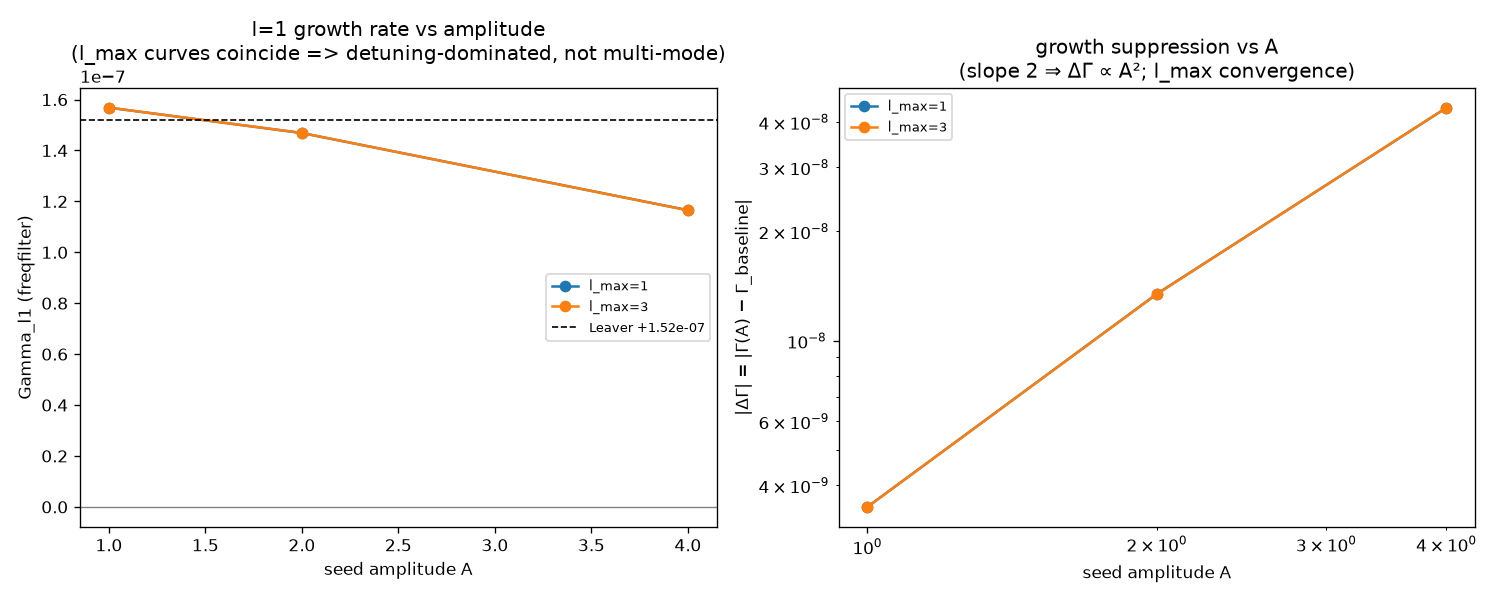
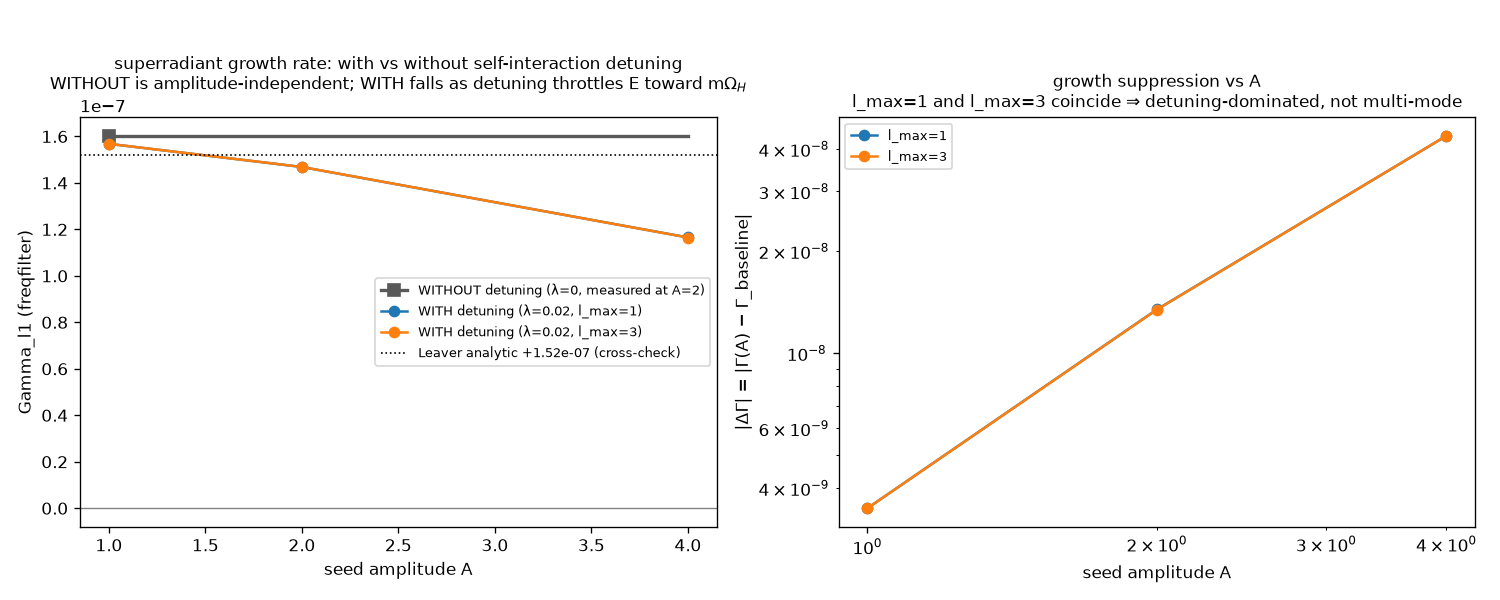
feat(radial1d/nonlinear): plot with/without self-interaction detuning in Gamma sweep
Left panel now shows the lambda=0 amplitude sweep (same freqfilter pipeline)
as the WITHOUT-detuning reference line against the amplitude-dependent WITH
curves; the analytic Leaver value is demoted to a thin independent cross-check.

diff --git a/nonlinear/gamma_sweep/tower_gamma_analyze.py b/nonlinear/gamma_sweep/tower_gamma_analyze.py
@@ -73,24 +73,50 @@ def main():
         nl = sorted({r["l_max"] for r in rows if r["lam"] != 0.0})
         fig, ax = plt.subplots(1, 2, figsize=(12.5, 5))
         CL = {1: "C0", 3: "C1", 5: "C2", 7: "C3"}
+
+        # Left panel is the actual with/without-detuning comparison: the
+        # WITHOUT curve is the same lambda=0 amplitude sweep (self-interaction
+        # off), measured with the identical freqfilter pipeline as the WITH
+        # curve, so both are directly comparable -- not the analytic Leaver
+        # value, which uses a different extraction method entirely and only
+        # serves as an independent cross-check (plotted thin, separately).
+        without_detuning = sorted(
+            [r for r in rows if r["lam"] == 0.0], key=lambda r: r["A"]
+        )
+        if without_detuning:
+            # Without self-interaction, Gamma has no amplitude dependence, so
+            # a single measurement (at whichever A it was run at) fixes the
+            # whole horizontal reference line for comparison against the
+            # amplitude-dependent WITH curves.
+            all_A = [r["A"] for r in rows if r["lam"] != 0.0] or [without_detuning[0]["A"]]
+            A0_span = [min(all_A + [without_detuning[0]["A"]]),
+                      max(all_A + [without_detuning[0]["A"]])]
+            G0 = without_detuning[0]["G1"]
+            ax[0].plot(A0_span, [G0, G0], "s-", color="0.35", lw=2, ms=7,
+                      markevery=[0],
+                      label=f"WITHOUT detuning (λ=0, measured at A={without_detuning[0]['A']:g})")
         for lm in nl:
             pts = sorted([r for r in rows if r["l_max"] == lm and r["lam"] != 0.0],
                          key=lambda r: r["A"])
             if not pts: continue
             A = [r["A"] for r in pts]; G = [r["G1"] for r in pts]
-            ax[0].plot(A, G, "o-", color=CL.get(lm, "k"), label=f"l_max={lm}")
+            ax[0].plot(A, G, "o-", color=CL.get(lm, "k"),
+                      label=f"WITH detuning (λ=0.02, l_max={lm})")
             dG = [abs(r["G1"] - G_base) for r in pts]
             ax[1].plot(A, dG, "o-", color=CL.get(lm, "k"), label=f"l_max={lm}")
-        ax[0].axhline(GL, color="k", ls="--", lw=1, label=f"Leaver +{GL:.2e}")
+        ax[0].axhline(GL, color="k", ls=":", lw=1, label=f"Leaver analytic +{GL:.2e} (cross-check)")
         ax[0].axhline(0, color="0.5", lw=0.8)
         ax[0].set_xlabel("seed amplitude A"); ax[0].set_ylabel("Gamma_l1 (freqfilter)")
-        ax[0].set_title("l=1 growth rate vs amplitude\n(l_max curves coincide => detuning-dominated, not multi-mode)")
+        ax[0].set_title("superradiant growth rate: with vs without self-interaction detuning\n"
+                        "WITHOUT is amplitude-independent; WITH falls as detuning throttles E toward m$\\Omega_H$",
+                        fontsize=10)
         ax[0].legend(fontsize=8)
         ax[1].set_xscale("log"); ax[1].set_yscale("log")
         ax[1].set_xlabel("seed amplitude A"); ax[1].set_ylabel("|ΔΓ| = |Γ(A) − Γ_baseline|")
-        ax[1].set_title("growth suppression vs A\n(slope 2 ⇒ ΔΓ ∝ A²; l_max convergence)")
+        ax[1].set_title("growth suppression vs A\nl_max=1 and l_max=3 coincide ⇒ detuning-dominated, not multi-mode",
+                        fontsize=10)
         ax[1].legend(fontsize=8)
-        fig.tight_layout(); fig.savefig(q.plot, dpi=120); print("\nsaved", q.plot)
+        fig.tight_layout(rect=[0, 0, 1, 0.94]); fig.savefig(q.plot, dpi=120); print("\nsaved", q.plot)
 
 
 if __name__ == "__main__":
